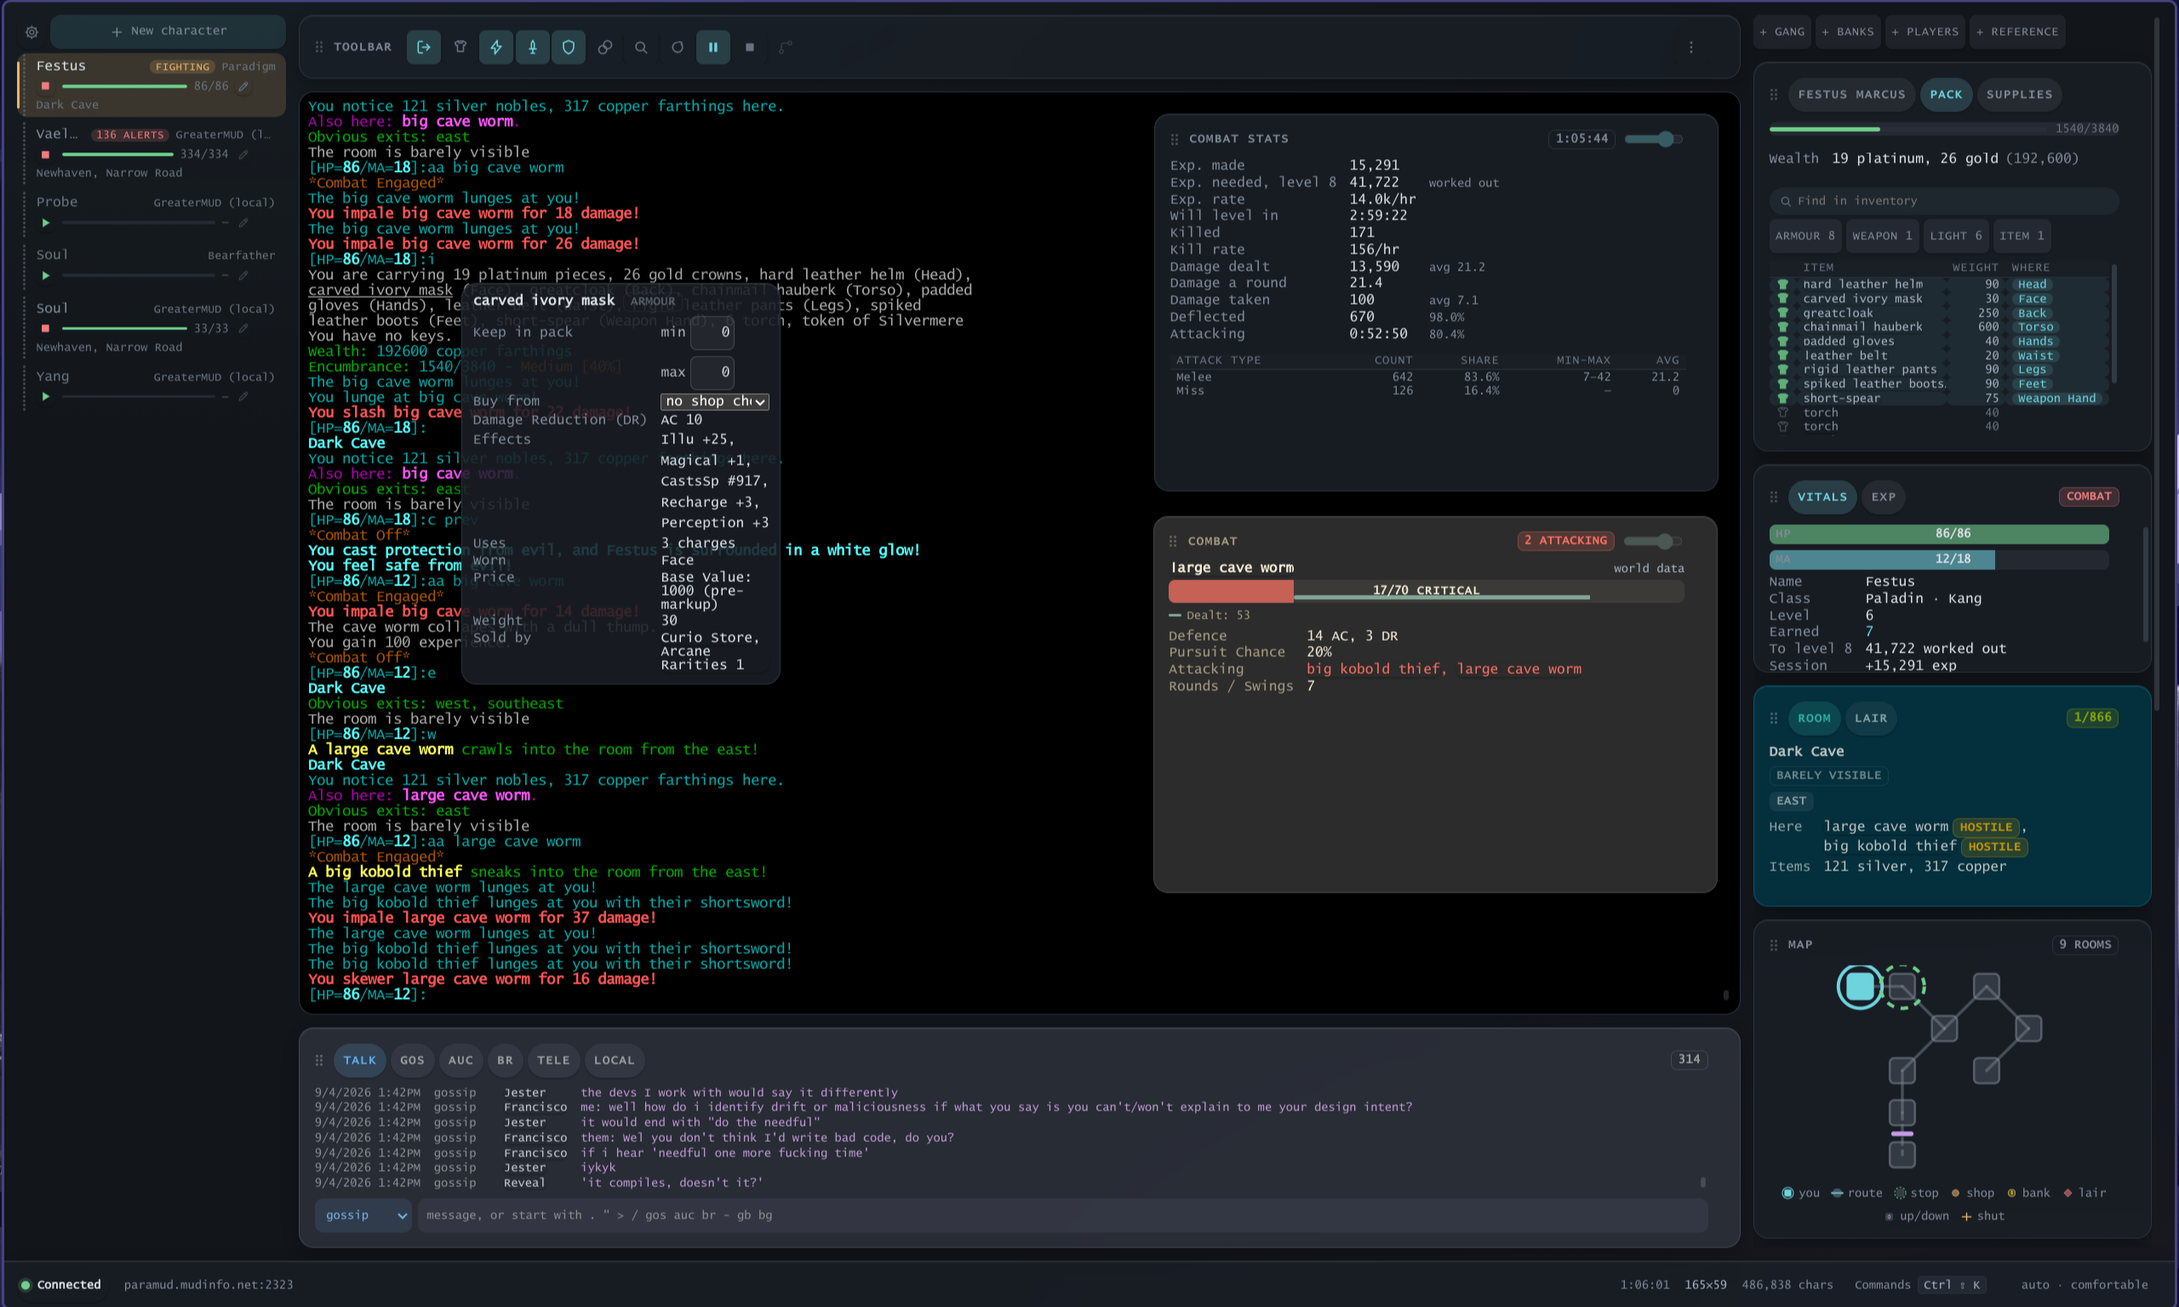
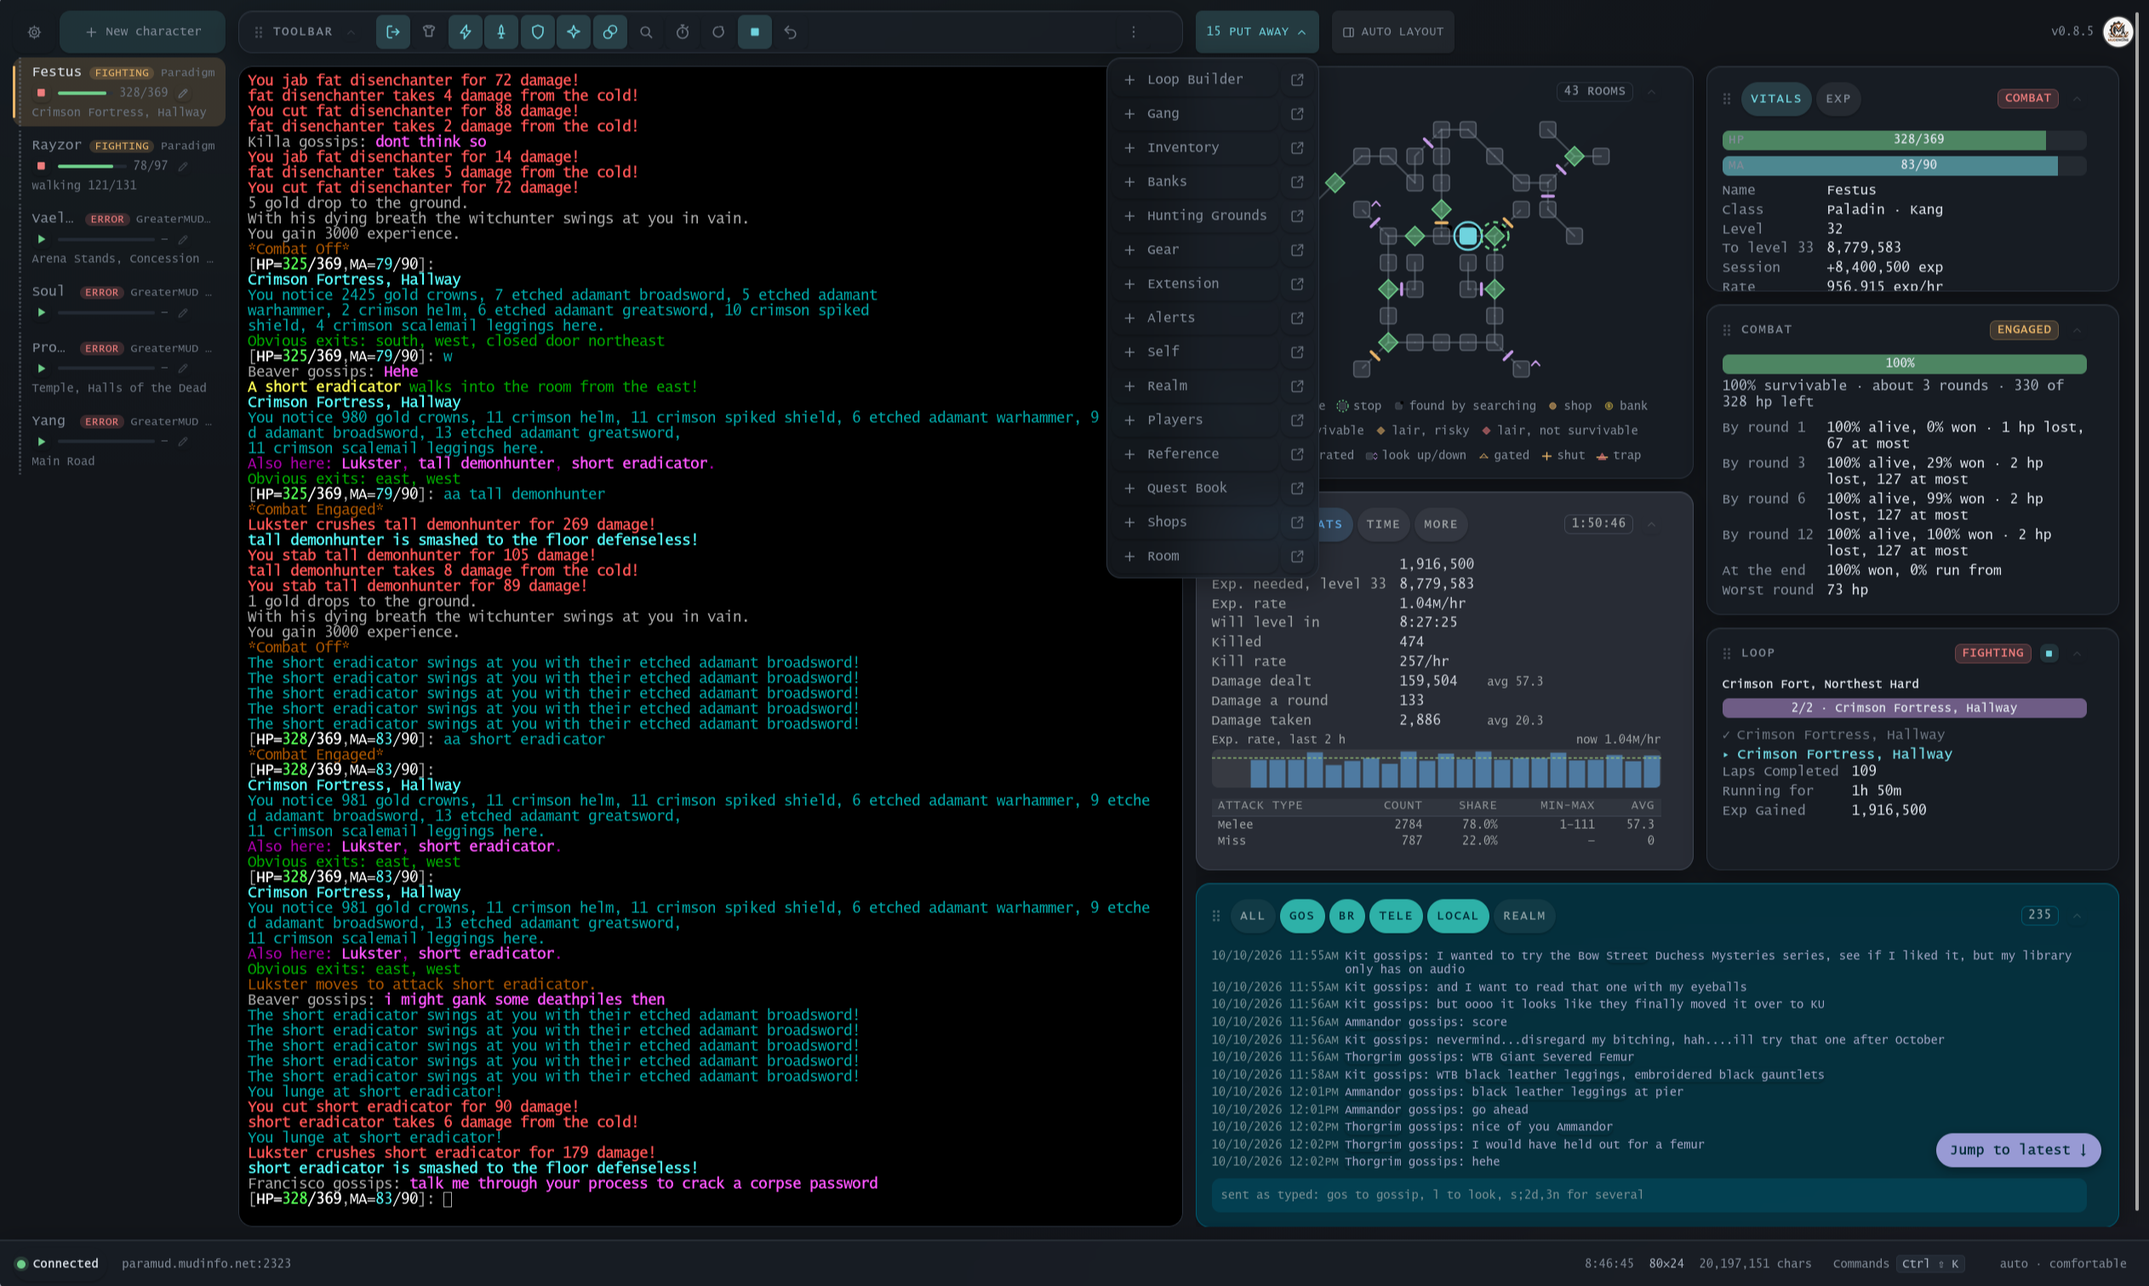
Rewrite the README as a feature guide with the new screenshot

diff --git a/README.md b/README.md
@@ -1,131 +1,228 @@
 # mudengine
 
-**A modern way to play a classic game.**
+A client for MajorMUD, GreaterMUD and Paradigm. It has a terminal, a map, live
+cards and scripting, and covers what MegaMUD does.
 
-![mudengine playing a character on Paradigm — terminal in the centre, live combat, inventory, vitals, map and chat around it](main-screenshot.png)
-
-## What is this?
-
-Back in the days before the web, people dialled into bulletin board systems and
-played a game called **MajorMUD** — a shared world made entirely of text, where
-thousands of players explored, fought monsters, formed gangs and built
-characters over months and years. Against all odds, that world is still alive.
-Communities run servers to this day, and people still play.
-
-**mudengine is a fresh start.** It is a brand-new program for playing MajorMUD
-and the games descended from it, built for today's computers — Windows, Mac and
-Linux — with everything the old tools did and a great deal they never could.
-
-## What it does
-
-**It shows you the game clearly.** The game itself sits in the middle of the
-window, exactly as it always looked. Around it, the client keeps a live
-scoreboard: your health, your experience, what you are carrying, who is in the
-room with you, a map of where you are, and the conversations happening around
-the realm — all updated as you play, without you asking.
-
-**It plays alongside you.** The repetitive parts of the game — fighting the
-same monsters, sitting down to recover, picking up the treasure, walking the
-same long roads — can be handed to the client. It fights when you want it to,
-rests when you are hurt, gathers what the monsters drop, and walks routes you
-choose. You stay in charge: the moment you touch the keyboard, you have the
-wheel.
-
-**It is honest about what it is doing.** Every helper in mudengine explains
-itself. If it attacked, it says why. If it *refused* to attack, it says why.
-If it is not sure where you are, it stops and says so rather than guessing —
-because a wrong guess is how a character dies at an unattended keyboard.
-
-**It handles a whole stable of characters.** Each character gets its own tab,
-up to four can be on screen side by side, and any of them can live in a window
-of its own. The characters you are *not* watching still watch themselves: if
-one drops to low health or gets into trouble, its tab lights up and tells you.
-
-**It knows the world.** Built into the client is a map of more than fifty
-thousand rooms. Click a place on the map and it shows you the way there —
-and walks it, one careful step at a time, checking after each step that it
-actually arrived where it expected.
-
-## What it aims to be
-
-The goal is simple to say: **everything MegaMUD was, on any computer made this
-century, without the guesswork.** A player from 1998 should feel at home; a
-player from today should never feel like they are operating a museum piece.
-
-The deeper goal is trust. Automation in this game has always meant crossing
-your fingers — scripts that ran blind and characters that died to a mystery.
-mudengine is built on the opposite idea: it never pretends to know something
-it doesn't, it never quietly does something you can't inspect, and when it
-declines to act, it tells you that too.
-
-## Running it in a container
-
-There is an image, and it is the client served over HTTP: main runs as a Node
-server, the window is served to your browser, and the game sockets, the files
-and the automation stay in the container.
-
-```
-docker run --rm -p 8080:8080 -v mudengine:/config rayzorben/mudengine:latest
-```
-
-Then open `http://localhost:8080/` and sign in with the password the
-container printed on its first start.
-
-**What is actually running.** The same client as the desktop one, under a
-different host: `src/main/host/WebHost.ts` carries the typed IPC contract over
-one WebSocket per browser tab instead of Electron's IPC, and everything else in
-main is untouched. Nothing is drawn in the container. (An earlier image ran the
-desktop client on a virtual display behind noVNC; it was 1.5GB of Xvfb, a
-window manager and Electron's GTK stack, and it is gone.)
+![Festus looping Crimson Fortress on Paradigm, with the map, vitals, fight odds, loop, exp rate and gossip around the terminal](main-screenshot.png)
 
 | | |
 |---|---|
-| `-p 8080:8080` | the port the browser connects to. |
-| `-v mudengine:/config` | **keep this.** It is `MUDENGINE_HOME`: your options file, realms, characters, logs and the access password. Without it they are deleted with the container. |
-| `-e MUDENGINE_PASSWORD=…` | choose the password instead of having one generated. |
+| Games | MajorMUD, GreaterMUD, Paradigm |
+| Runs on | Windows, macOS (Intel and Apple Silicon), Linux, or in a browser through Docker |
+| World data | MajorMUD and Paradigm built in, or load your realm's own `.mdb` |
+| Realms included | Paradigm's six (game 1 to 4, test PvE, test PvP) |
+| Version | 0.8.5, played daily on live realms |
 
-**The password.** On the first start the container generates one, prints it
-once, and saves it to `/config/.access-password` on the volume. Later starts
-do not reprint it. Delete that file to have a new one made, or set
-`MUDENGINE_PASSWORD` to choose your own. Signing in sets a session cookie for
-the browser; the socket that carries the game and the settings screen is
-refused on the upgrade without one, and refused from any other origin.
+## Contents
 
-**Read this before exposing the port.** The connection is **not encrypted**:
-the password travels as a form field and the session as a cookie. On anything
-other than a machine you are sitting at, put a TLS-terminating proxy in front
-of it, and set `MUDENGINE_TRUST_PROXY=1` so the client believes the proxy's
-`X-Forwarded-Proto` — without it the client assumes cleartext whatever a
-header says, because a header is something anybody can send. Outside a
-container the client binds to `127.0.0.1` unless `MUDENGINE_BIND` says
-otherwise; the image binds to every address because the published port is
-the only way in.
+- [The screen](#the-screen)
+- [Cards](#cards)
+- [Scripting](#scripting)
+- [Walking, loops and goto](#walking-loops-and-goto)
+- [Trips](#trips)
+- [Remote control](#remote-control)
+- [More than one character](#more-than-one-character)
+- [Settings and files](#settings-and-files)
+- [Getting started](#getting-started)
+- [Running it in Docker](#running-it-in-docker)
 
-**One client per home.** The client takes `.lock` under its home on start and
-refuses to start beside another client on the same files, naming the pid
-that holds it — two clients on one home write the same records and dial the
-same characters. A lock left by a client that died is taken over and said so.
+## The screen
 
-**What a browser tab cannot do.** Moving a character to a second window is a
-desktop feature and the tab does not offer it. *Show the options file* and its
-siblings list the directory in the window instead of opening a file manager
-on a machine you are not at, and choosing a realm database browses the
-container's `/config` — copy a database there first. Copy and paste use the
-browser's own clipboard.
+| Part | What it does |
+|---|---|
+| Terminal | The game as the server sends it, in the original ANSI colours and CP437 font. Search the backscroll, load older lines, show a time on each line. |
+| Character tabs | One tab per character. The tab shows what it is doing (fighting, resting, walking 121/131, looping, poisoned, held, offline) and a connect button. |
+| Toolbar | Buttons for every `Auto-` switch, loops, and movement. Pin the ones you use. |
+| Cards | Panels around the terminal. Drag, resize, dock above or below, or float them over the terminal. **Auto layout** sizes each card to fit. |
+| Command palette | `Ctrl+Shift+K`. Type a command, a room to goto, a monster or item to look up, or a card to show. |
+| Themes | 27 themes, dark and light, such as Dracula, Nord, Gruvbox, Solarized and Vivid VGA. The terminal stays black. |
 
-**Bind mounts.** The image runs as uid 1000. A bind-mounted directory owned by
-anybody else is a container that cannot write its options file; the named
-volume above is the form that needs no arrangement.
+## Cards
 
-Building it yourself is `npm run docker:build`, which reads the tag out of
-`package.json` so it cannot drift from the release it belongs to.
-`npm run docker:run` runs what that built. Pushing is a separate command on
-purpose. The same server runs outside a container with `npm run build && npm
-run web`.
+Each card reads what the server prints and updates as you play. You do not
+have to type `st` or `i` over and over.
 
-## Where it stands
+### Your character
 
-Everything described above works today. The project is not yet at version 1.0 —
-polish, deeper automation and packaged installers for every platform are still
-being finished — but it is played on daily, against real servers, with real
-characters.
+| Card | Shows |
+|---|---|
+| Vitals | HP and mana (or kai) bars, class, level, exp to next level, session exp and exp rate. The Exp tab has the full level table. |
+| Self | Your stat sheet: stats, skills, lives/CP, AC/DR, MR, light source and supplies that are running low. |
+| Inventory | What you are carrying, coins by type, weight and keys. |
+| Gear | The best item for each slot anywhere in the realm, what you can afford now, and a trip to go buy it. |
+| Banks | Your balance at every bank you have used. |
+
+### Fighting
+
+| Card | Shows |
+|---|---|
+| Combat | Your target, how hurt it is, what is on you, and the odds: chance to survive, rounds to kill, HP left at the end. |
+| Combat Stats | Exp rate, kills per hour, time to level, damage dealt and taken, hit and miss rates per attack type, and an exp graph for the last two hours. |
+| Hunting Grounds | Every lair you can reach, rated for this character, best first. Lairs that are too hard or too easy are listed with the reason. |
+| Party | Members' HP and mana, their rank, who is fighting what, and invites. |
+
+### The world
+
+| Card | Shows |
+|---|---|
+| Map | The rooms around you from the world database. Lairs, shops, banks, gates, traps and secret exits are marked. Click a room to goto it. |
+| Room | The room you are in and what is here. Shops, banks, temples and trainers get extra detail. |
+| Loop Builder | Click rooms on the map to draw a loop and save it. |
+| Navigation | The route or loop you are on, its progress, and stop or resume. |
+| Shops | Every shop list you have seen, searchable, with a route to each shop. |
+| Quest Book | The realm's quests: who can do them, each step, and the route for each step. |
+| Reference | Look up any monster, item or spell: HP, drops, price, AC/DR, spell cost and level. |
+
+### People and talk
+
+| Card | Shows |
+|---|---|
+| Talk | Gossip, auction, broadcast, telepaths, gangpath, say and yell, each on its own tab with a search field. You can type into it. |
+| Realm | The `who` list, which you can filter by alignment. |
+| Players | Everyone you have seen on the realm, where they were last seen, and their `@health` replies. |
+| Gang | Your gang's members and which `@` commands they may use. |
+| Alerts | Low HP, a player or monster entering, a player attacking you, a hangup, the end of a route, and your own watches for an item, player or amount of cash. |
+
+Session, Link, Automation and Stream cards show the connection and every
+command the client sent, including what it refused to do and why.
+
+## Scripting
+
+Every switch is on the toolbar and in the character's settings. Each is off
+until you turn it on.
+
+| Switch | What it does |
+|---|---|
+| Auto-Combat | Attacks monsters by your rules: which to attack, which to leave alone, the opener (`bs`, `ju`) and the attack each round. |
+| Spells | Attack spells, drains when hurt, heals, cures, blesses and buffs, each with a mana floor. |
+| Items | Potions and other items, used when HP drops or a condition hits. |
+| Rest | Rests or meditates to a set percent or to full before moving on. |
+| Auto-Run | Runs from a fight when HP is too low, or between rounds. |
+| Auto-Teleport | A last way out when running is not enough. |
+| Auto-Hangup | Hangs up as a last resort. It warns you that hanging up while a player is attacking you carries a five-minute penalty. |
+| Auto-Sneak, Auto-Light, Auto-Search | Sneaks between rooms, lights dark rooms, and searches for hidden exits. |
+| Auto-Get Cash, Auto-Drop Junk | Picks up coins and drops what you set as junk. |
+| Auto-Bless | Keeps your blesses up. |
+| Auto-Gear | Wears the best gear and puts it back on after a fight. |
+| Doors | Opens, picks or bashes closed doors on the way. |
+| Training | Walks to the trainer and trains when a level is ready. |
+| Leading and following | Follows a leader, assists, rests with the leader, joins when invited, and heals the party. |
+| Attacked by a player | What to do when another player attacks you, and whether to fight back. |
+| Away From Keyboard | After a set number of minutes with no typing, answers telepaths with your away reply, such as MegaMUD's `{AFK}`. |
+
+Before logging in with scripting on, the client asks if your lives are below
+the floor you set.
+
+## Walking, loops and goto
+
+- Goto any room by name or number. The route goes through gates, doors and
+  keys, and can pick up an item it needs on the way.
+- Each route shows the fights along it and the odds of each.
+- If a step fails or the room is dark, the client reports that it is lost and
+  resyncs from the next room it recognizes.
+- Loops run lap after lap, forward or backward. 420 of MegaMUD's paths ship
+  as loops. Search loops by "starts here", "passes through here" or "last
+  walked".
+- Draw your own loop on the map with the Loop Builder.
+- **Search the area** searches every room within a set number of steps for
+  hidden items and exits.
+- **Cash run** walks a loop picking up coins, banks them, and walks back.
+- If a route stops and you are far from it, the client asks whether to walk
+  back or stay.
+
+## Trips
+
+These are the same as MegaMUD's detours. The client leaves the loop, does the
+job, and comes back.
+
+| Trip | When |
+|---|---|
+| Bank | Auto-Deposit when you carry too many coins. |
+| Shop | Auto-Buy Supplies when you are low on something, or to sell. |
+| Trainer | When a level is ready. |
+| Gear | Buys the upgrade the Gear card found. |
+| Quest | Auto-Quest walks a quest's steps from the Quest Book. |
+
+## Remote control
+
+The client answers MegaMUD `@` commands from players you allow, your gang or
+your party: `@health`, `@do`, `@join`, `@forget`, `@get-all`, `@party`,
+`@wait`, `@ok` and `@relog`. It refuses `@kill` and `@hangup` from anyone.
+The reply goes back on the same channel the command came in on.
+
+## More than one character
+
+- Each character has its own tab and its own connection.
+- Split the window to show two characters side by side or stacked.
+- Move any character to its own window, and move it back.
+- A character you are not watching still raises alerts, and its tab shows
+  them.
+
+## Settings and files
+
+- Settings has pages for each character, each realm, and the client. Use
+  **Find a setting** to search all of them.
+- Everything is saved as YAML files you can edit. The client keeps your
+  comments when it writes to them.
+- Each realm has its own folder, with a login script for its menus.
+- Rewrites change how lines look and set the statline format.
+- Session logs, captures and the talk log are kept on disk.
+- Desktop notifications for alerts can be turned on per event.
+- Extensions are folders with a `manifest.json`. An extension can add its own
+  card and buttons.
+
+## Getting started
+
+From source, with Node 20 or later:
+
+```sh
+npm install --ignore-scripts
+npm run dev
+```
+
+To build an installer:
+
+| Platform | Command | Output |
+|---|---|---|
+| Linux | `npm run dist:linux` | AppImage, deb, tar.gz |
+| Windows | `npm run dist:win` | Installer, zip |
+| macOS | `npm run dist:mac` | dmg, zip |
+
+On first start, add a character, pick a realm, and connect. To use another
+realm's world data, point the realm at its `.mdb`. The client converts it the
+first time and keeps the result.
+
+## Running it in Docker
+
+The image serves the whole client to your browser. The game connections,
+files and scripting run in the container.
+
+```sh
+docker run --rm -p 8080:8080 -v mudengine:/config rayzorben/mudengine:latest
+```
+
+Open `http://localhost:8080/` and sign in with the password the container
+printed the first time it started.
+
+| Option | Use |
+|---|---|
+| `-p 8080:8080` | The port your browser connects to. |
+| `-v mudengine:/config` | Keeps your settings, realms, characters, logs and password. Without it they are deleted with the container. |
+| `-e MUDENGINE_PASSWORD=…` | Sets your own password instead of a generated one. |
+| `-e MUDENGINE_TRUST_PROXY=1` | Trusts a TLS proxy in front of the client. |
+
+The password is printed once and saved to `/config/.access-password`. Delete
+that file to get a new one.
+
+> The connection is not encrypted. If the port is reachable from anywhere
+> other than your own machine, put a TLS proxy in front of it and set
+> `MUDENGINE_TRUST_PROXY=1`.
+
+Other notes:
+
+- Only one client can run on the same `/config` at a time.
+- A browser tab cannot move a character to its own window.
+- The image runs as uid 1000. A bind-mounted folder has to be writable by
+  that user. The named volume above needs no setup.
+- `npm run docker:build` builds the image and `npm run docker:run` runs it.
+  Without Docker, use `npm run build && npm run web`.
